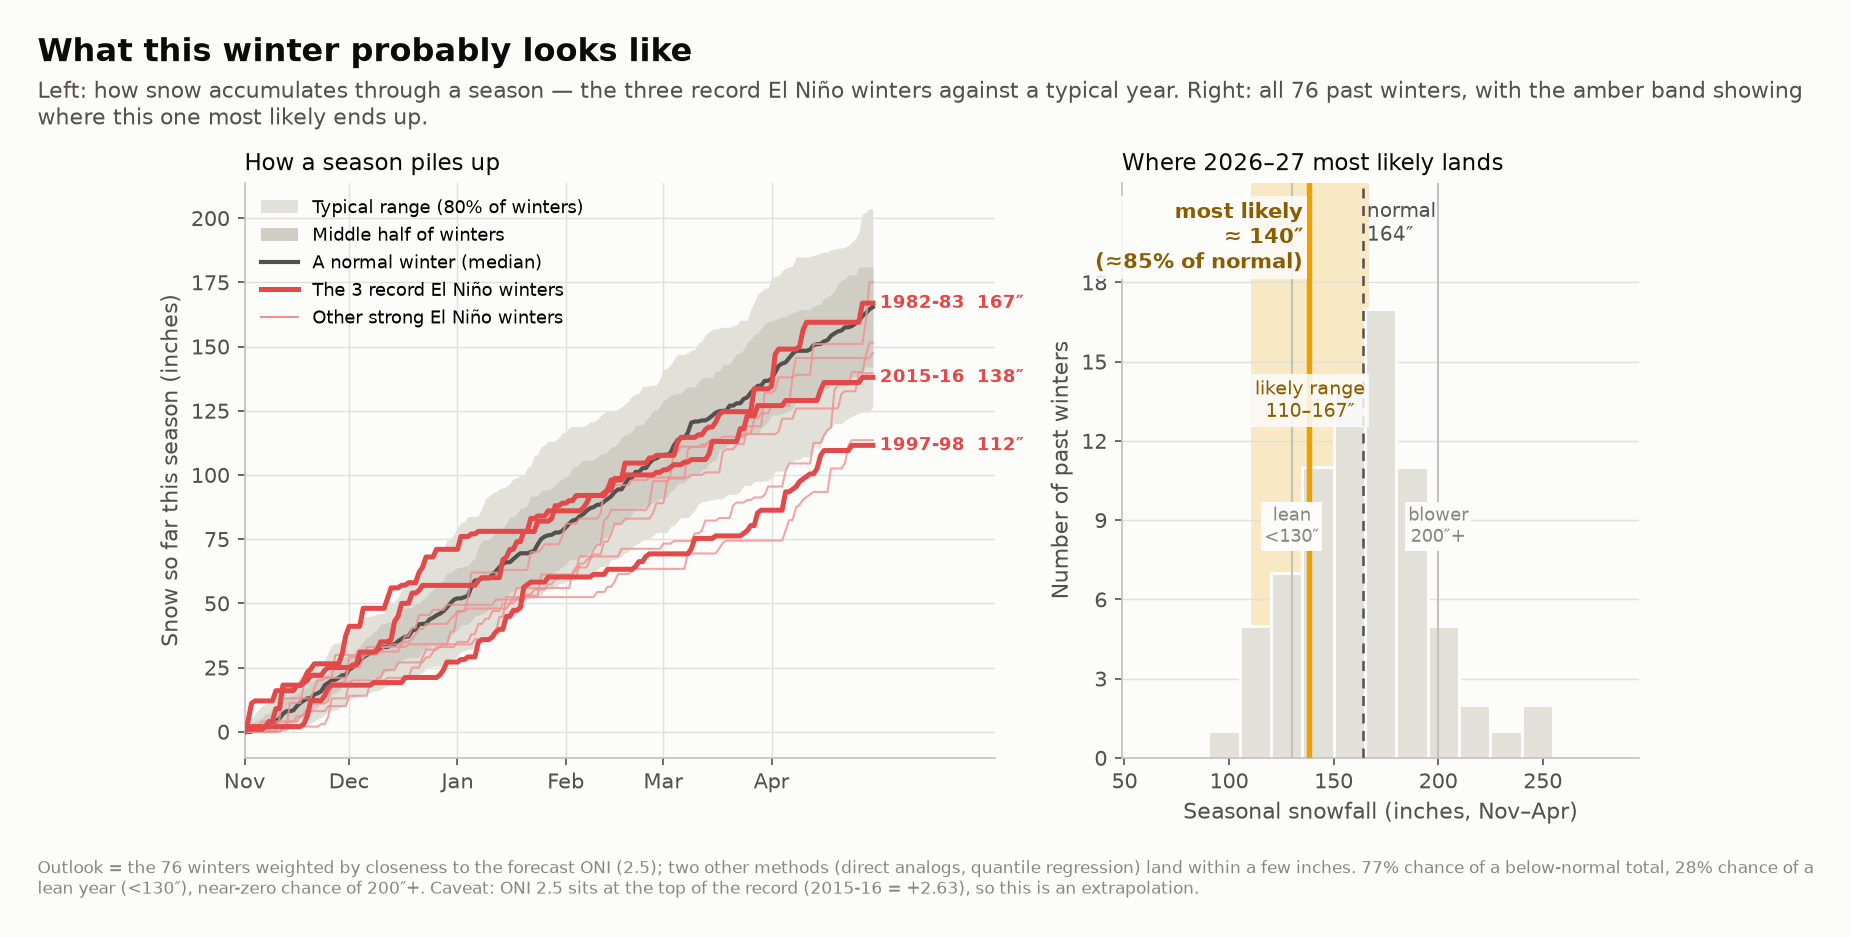
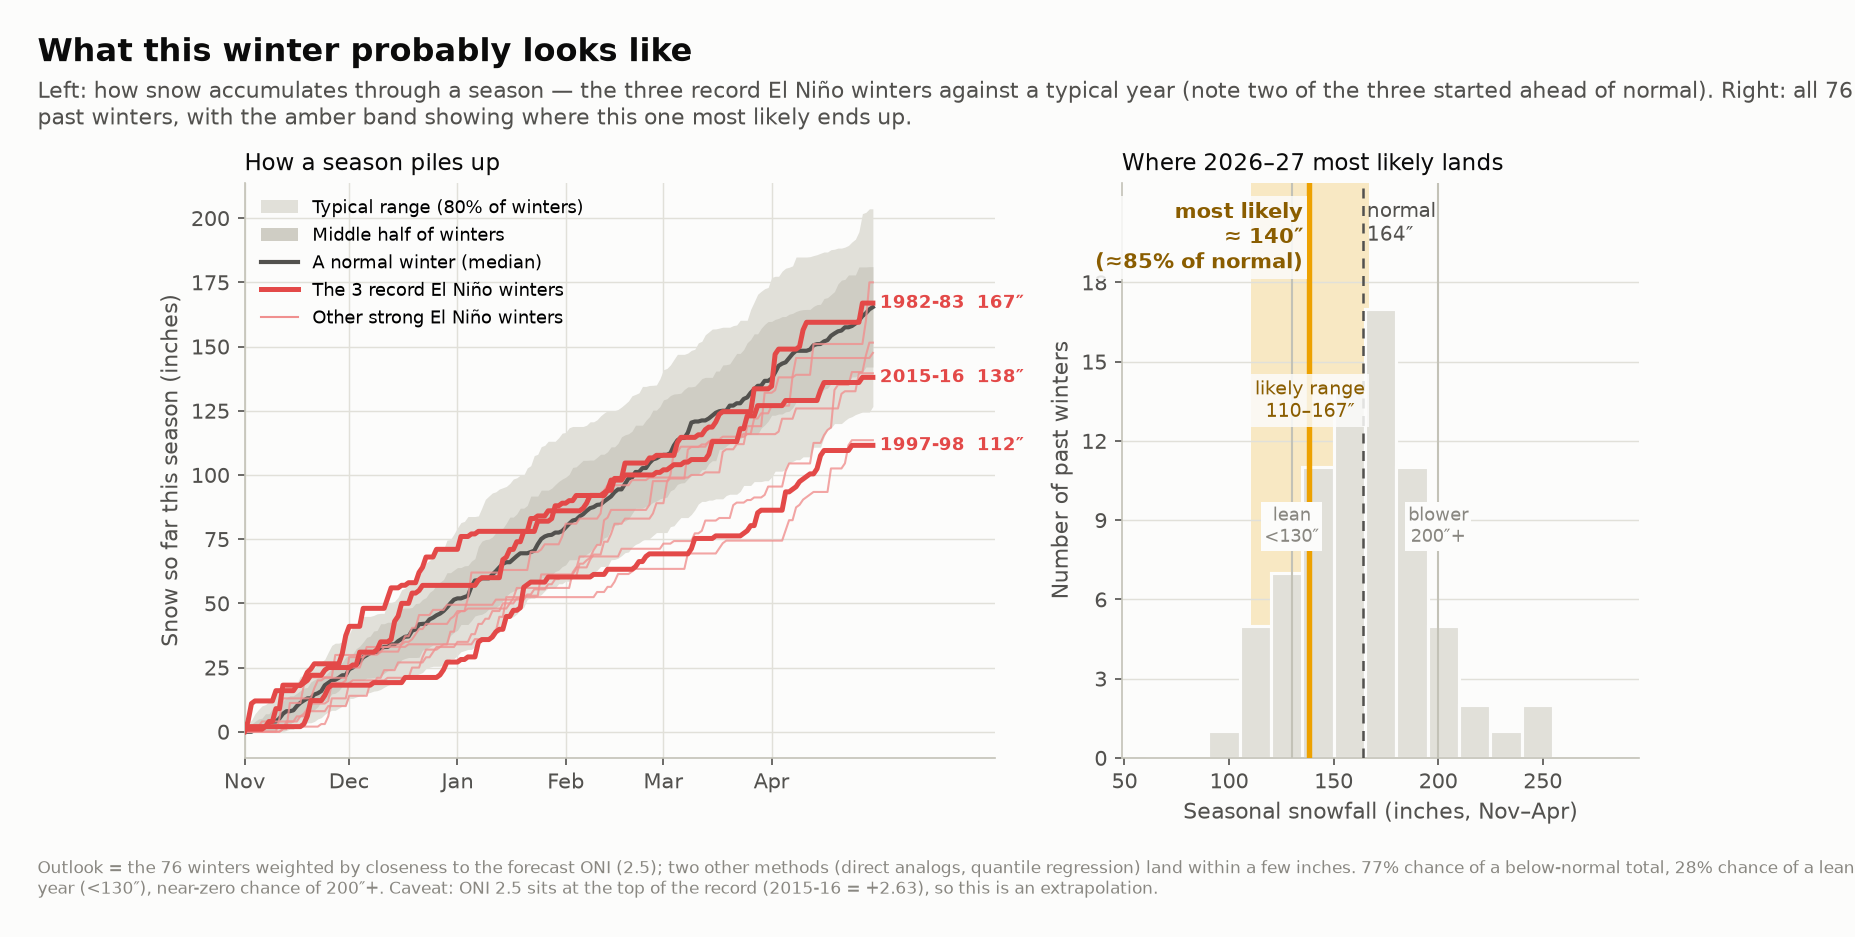
post: fix the 'hit lands early' overclaim — El Niño tilts the total, not the timing
Monthly slopes are flat (-2.1 to -2.8 in/°C); Nov-Dec are where the signal is
statistically solid and proportionally largest, not where the most snow is
lost. Two of the three record El Niño winters started above normal. Retitle
fig 3, note the fast starters in fig 6's subtitle, and reword the post's
'why' bullet and bottom line accordingly.

diff --git a/posts/2026-09-06-el-nino-and-bridger-bowl-record-winter.md b/posts/2026-09-06-el-nino-and-bridger-bowl-record-winter.md
@@ -88,11 +88,15 @@ that bury us.
 
 Two more findings from the record that shape how to play the season:
 
-- **The hit is spread across the winter, worst early.** Every month Nov–Mar
-  loses snow per degree of ONI, with **November and December** the only
-  months reaching statistical significance. The folklore of the "back-loaded
-  El Niño winter" doesn't rescue Bridger — February and March slopes stay
-  negative. Plan for a slow start without banking on a March miracle.
+- **The loss is spread across the whole winter — it's about the total, not
+  the timing.** Every month Nov–Mar gives up a similar 5–7 inches at this
+  year's forecast strength. **November and December** are where the signal is
+  statistically solid (and, being smaller months, where the proportional hit
+  is biggest), but January–March point the same direction. Two things follow.
+  The folklore of the "back-loaded El Niño winter" doesn't rescue Bridger —
+  February and March slopes stay negative. And don't bank on a slow start
+  either: two of the three record El Niño winters (1982-83, 2015-16) came out
+  of the gate *above* normal, as the season plot further down shows.
 
   ![Normal monthly snowfall vs. a +2.5 °C El Niño winter, Nov–Mar](https://coldsmokereport.github.io/coldsmoke/assets/images/2026-09-12/03_months.png)
 
@@ -141,7 +145,9 @@ not a lower number:
 
 The forecast is dramatic; the playbook is calm.
 
-- **Plan for a slow start.** The suppression is worst in November–December.
+- **Don't bet on the timing.** The loss is spread across the season, and the
+  record winters started fast and slow alike — bet on the total, not the
+  calendar.
 - **Expect fewer deep days** — a central total around 85% of normal, and
   real odds (~30%) of a lean year — but don't write off the season.
 - **The snow that does fall should still be cold.** No reliable temperature
